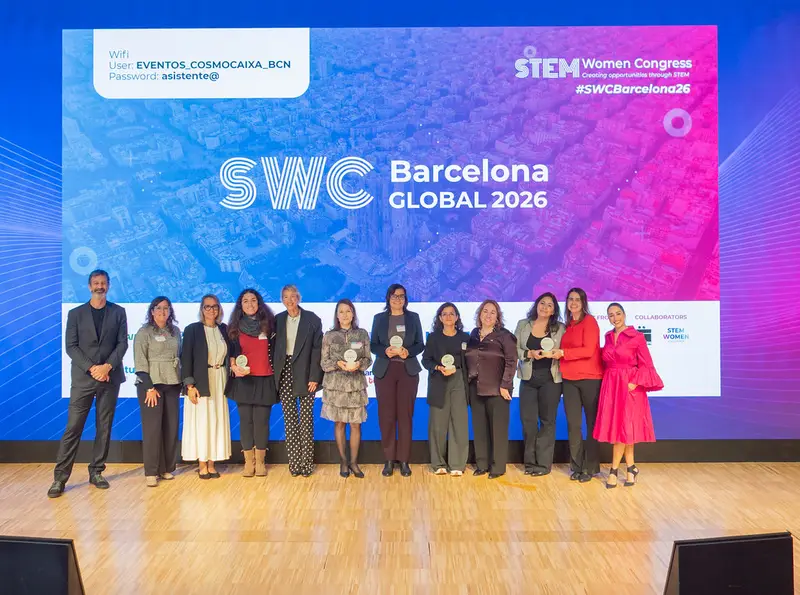
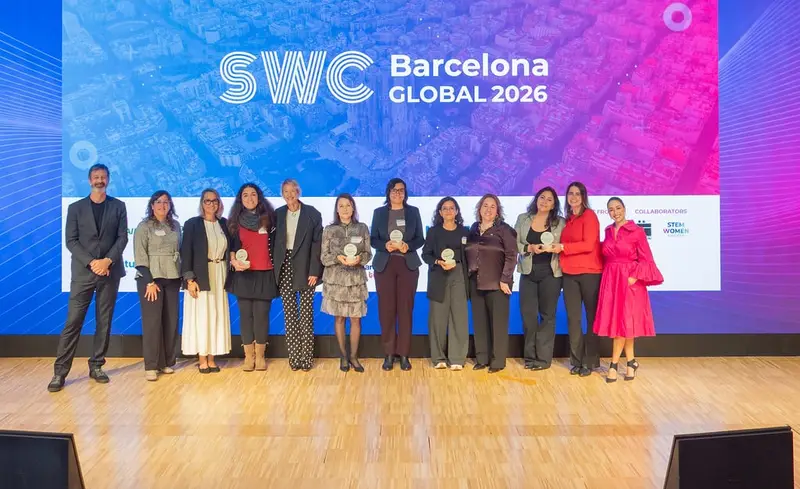
fix(blog): sin la contraseña del wifi en la foto de los STEM Awards
La foto de la entrega se recorta por arriba para quitar el cartel con el
wifi de CosmoCaixa, que se veía en la home y al compartir el enlace. La
foto del trofeo lleva el distintivo de IA: el trofeo es real, pero el
fondo y las pegatinas se añadieron con IA.

diff --git a/src/features/Blog/posts/noticias/StemAwardsBarcelona2026.tsx b/src/features/Blog/posts/noticias/StemAwardsBarcelona2026.tsx
@@ -181,9 +181,11 @@ const StemAwardsBarcelona2026: React.FC = () => (
       </SeccionPost>
 
       <SeccionPost titulo="A quienes hacéis posible esta comunidad">
+        {/* El trofeo es real; el fondo y las pegatinas se añadieron con IA. */}
         <ImagenPost
           src="/assets/noticias/premio-stem-ecosystem-professional-career-2026.jpg"
           alt="El galardón Professional Career del STEM Women Congress, categoría Ecosystem Recognition, noviembre de 2026: un disco claro sobre una base de madera, rodeado de pegatinas con el logotipo de FemCoders Club"
+          generadaConIA
         />
         <p>
           Gracias a quienes venís a los encuentros, compartís una oferta con
